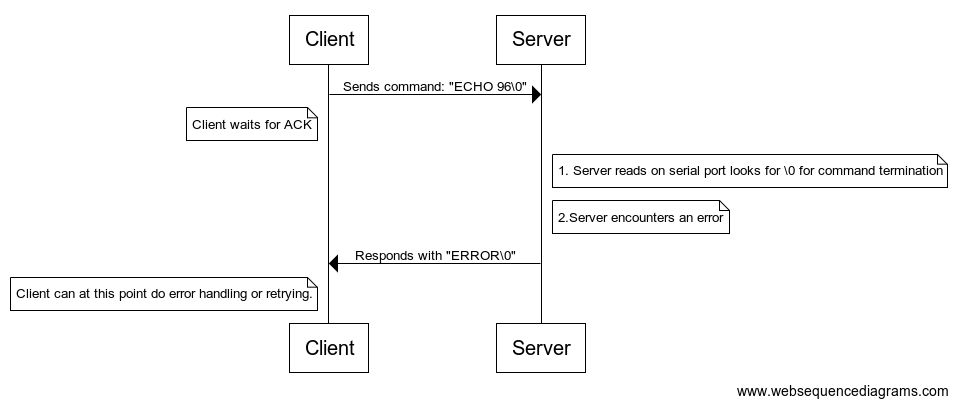
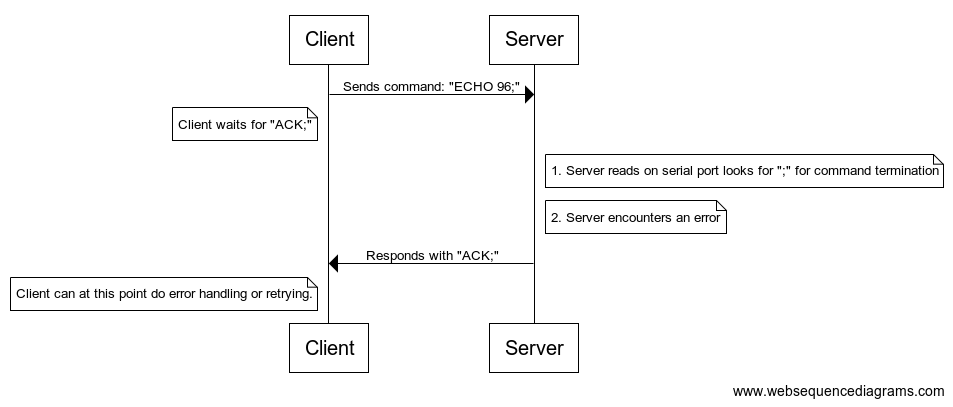
replaces NULL for semi-colon on spec

diff --git a/README.md b/README.md
@@ -9,7 +9,7 @@ the gpioduino protocol is designed to be easy to implement and flexible.
 - text based
 - first `WORD` is the command
 - might contain additional arguments, space separated (for example `PIN` number on the arduino)
-- commands ends with an ASCII NULL: `\0`
+- commands ends with a semi-colon: `;`
 - server will respond with `ACK` after each command if successful, this response might contain an argument if applicable (for example a "read" command).
 - server will respond with `ERROR` in case the server had an error executing the command.
 - state handling is not automatic, your clients need to keep track of state of the server
